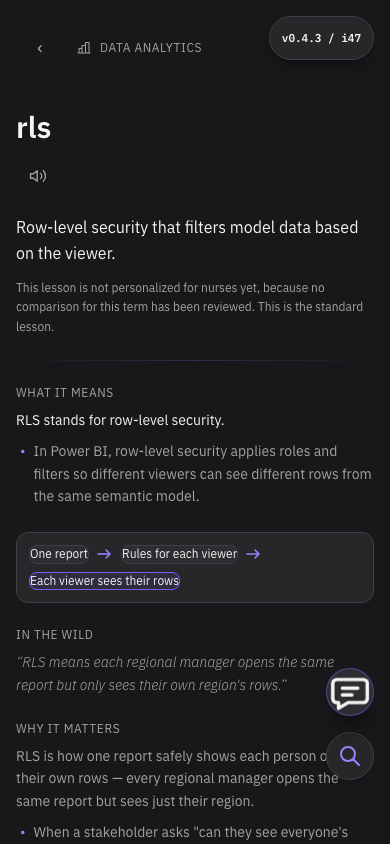
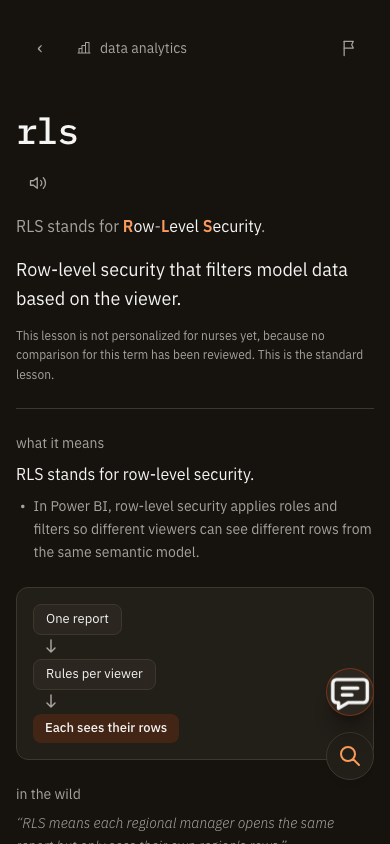
Document round 3 and replace the lesson screenshots
The README describes the diagram rule, the abbreviation line and the
desktop layout. docs/migrations.md adds the term expansions migration,
which still needs Kevin's approval, and says to apply the migrations before
deploying personalize-term, which now reads terms.expansion.

The screenshots are real captures with synthetic data, before and after
this round: the term page at 1920x1080, 1440x900, 1024x768 and 390x844,
and the learn card and a quiz at 1440x900.

diff --git a/docs/migrations.md b/docs/migrations.md
@@ -1,6 +1,6 @@
 # Migrations added by the evaluation work
 
-Kevin approved these four migrations on 2026-11-03. They go to production only after the pull requests merge. Each one is safe to run more than once, and a SQL test runs each one twice against the real earlier migrations (`npm run test:sql`).
+Kevin approved the first four migrations on 2026-11-03. The fifth, term expansions, is new in this round and still needs his approval. They go to production only after the pull requests merge. Each one is safe to run more than once, and a SQL test runs each one twice against the real earlier migrations (`npm run test:sql`).
 
 | Migration | What it does | Why it is safe to rerun | SQL test |
 | --- | --- | --- | --- |
@@ -8,10 +8,11 @@ Kevin approved these four migrations on 2026-11-03. They go to production only a
 | `20261103000100_canonical_corrections.sql` | Corrects three canonical entries (staging and the live payment account, calculated-column totals, model parameter counts), in the shortened wording Kevin asked for, and removes cached renderings of those three terms | Each update applies only while the original wrong text is still there, so a second run or a later curator edit changes nothing | `test_canonical_corrections.sql` |
 | `20261103000200_hide_unreviewed_generated_terms.sql` | Hides terms written by the ingest model from learners until a person sets reviewed_at | `drop policy if exists` before `create policy`, `create index if not exists` | `test_unreviewed_generated_terms.sql` |
 | `20261103000300_ingestion_log_failure_pass.sql` | Lets ingestion_log record failure_pass 'pass1', 'insert' and 'budget' | `drop constraint if exists` before `add constraint` | `test_ingestion_log_failure_pass.sql` |
+| `20261103000400_term_expansions.sql` | Adds an expansion column to terms and fills it for 147 seed terms: what each abbreviation, initialism, acronym or clipped word stands for, or a flag that a name only looks like one. Generated from `supabase/term-expansions.json` | `add column if not exists`, and each update sets the same value again | `test_term_expansions.sql` |
 
 ## Applying them
 
-Apply in file-name order, after the pull requests merge, with the usual `supabase db push`. Nothing else has to happen first.
+Apply in file-name order, after the pull requests merge, with the usual `supabase db push`. Apply them before deploying the personalize-term function, because the new function reads `terms.expansion` and would fail on a database without that column.
 
 The v10 migration was edited after Kevin's approval, to allow the two prompt version 11 statuses (skipped-unsupported-field and skipped-no-analogy). Without them the function's log rows for those requests would be rejected.
 
@@ -21,3 +22,4 @@ The v10 migration was edited after Kevin's approval, to allow the two prompt ver
 - `canonical_corrections`: the original text is in the migration itself, as the guard of each update.
 - `hide_unreviewed_generated_terms`: the undo steps are in the file's header comment.
 - `ingestion_log_failure_pass`: restore the earlier constraint list, after deleting or relabeling rows that use the new values.
+- `term_expansions`: `alter table terms drop column expansion`. The app shows no expansion line when the column is empty.

diff --git a/README.md b/README.md
@@ -65,6 +65,12 @@ flowchart TD
 
 The logo, titles and term names stay lowercase. Lesson sentences display in sentence case with full punctuation, a definition reads as one lead sentence plus bullets, and seven terms get a small diagram drawn in code (`src/lib/lesson-text.ts`, `src/components/lesson-body.tsx`, `src/components/concept-illustration.tsx`). The stored canonical text is not rewritten. It is formatted for display, and the prompts ask the model to write the same way.
 
+A diagram pill always has room around its text, and a flow sits on one line when it fits. When it does not fit, the flow becomes a vertical stack with down arrows instead of wrapping partway. A browser test checks every diagram at five screen sizes (`tests/e2e/lesson-layout.spec.ts`).
+
+When a term is an abbreviation, an initialism, an acronym or a clipped word, the line right under its title says what it stands for, before the definition: "RLS stands for Row-Level Security", with the letters marked, or "Short for repository". The expansions are data on each term (`supabase/term-expansions.json`, loaded by a migration), so lessons written by the model show the same line. Nine of the 147 entries are marked for a person to confirm.
+
+On a laptop or desktop the term page is a reading column of about 65 characters beside a side panel with the diagram, the next step and related terms. Search and feedback sit in a top bar there instead of floating over the page. Phones keep one column. The look borrows from a field notebook: warm dark paper, a marker orange accent and a mono face for term names, since the app is about learning technical words through your own job.
+
 ## Evaluation
 
 **Honest headline.** One development run on 2026-10-30 covered 79 of 120 planned items: 27 of 40 terms, no hard term, and 3 profiles written by the author, all with an empty learned vocabulary. The same model family generated and verified, and the verifier accepted 78 of 79. Of the 4 errors the rewrites introduced, the verifier caught **0 of 4** (95% CI 0-49%), and all 4 sat in outputs that used an analogy. Counting errors copied from wrong canonical entries, at least **9 of 78** accepted outputs (12%, 95% CI 6-20%) showed a learner a claim judged wrong. Only 5 of those 9 were confirmed by a person, after an AI screen flagged them, and 73 of the 78 accepted outputs never had an expert read. There was no baseline. There is no measured learning benefit.
